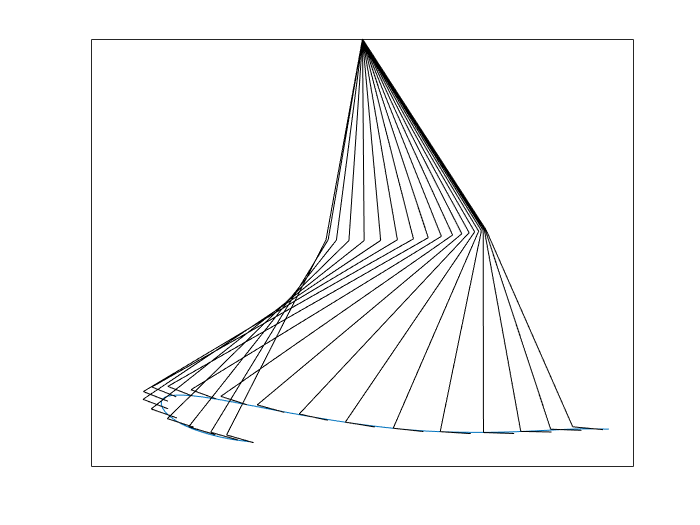
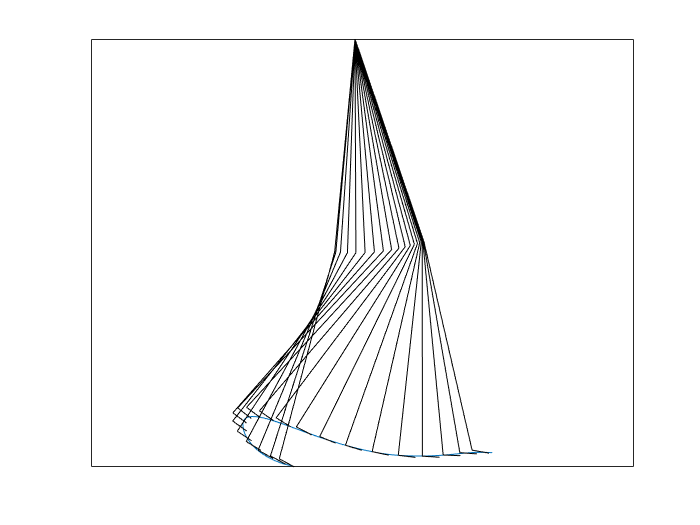
Updated sim to inlcude mpc

Changed region(s): [[0.21, 0.061, 0.87, 0.8838], [0.75, 0.701, 0.81, 0.7619]]

diff --git a/JerkMPC.m b/JerkMPC.m
@@ -1,0 +1,215 @@
+clear
+close all
+
+%% Import Experimental Data
+load('FootPlacement.mat')
+Xf = fit(timex, 0.8*(x/100),'smoothingspline');
+Zf = fit(timez, 0.8*(z/100),'smoothingspline');
+
+%% Define MPC Object and Parameters
+t = linspace(0,timex(end),35); 
+
+%-- Parameter Definitions --%
+Ts = t(2) - t(1);           % Sample Time
+last_state_dot = 0;         % Record last state derivative
+
+%Leg Geometry
+lh = 0.424; lk = 0.425; la = 0.034;
+leg_length = struct('hip',lh,'knee',lk,'ankle',la);
+q_star = deg2rad([0;10;90]); %comfortable positions
+
+%Parameter Cell
+params = nlmpcmoveopt; %Non-linear mpc "options" object
+params.Parameters = {Ts, last_state_dot, leg_length, q_star};
+n_params = length(params.Parameters);
+
+%MPC Object
+LEG = nlmpc(3,2,3); %3 states, 2 outputs, 3 inputs
+
+%Model Definition
+LEG.Ts = Ts;
+LEG.ControlHorizon = 10;
+LEG.PredictionHorizon = 10;
+LEG.Model = struct('StateFcn',@myStateFunction,'OutputFcn',@myOutputFunction,'NumberOfParameters',n_params);
+LEG.Jacobian = struct('OutputFcn',@Jacobian);
+LEG.Optimization = struct('CustomCostFcn',@myCostFunction,'ReplaceStandardCost',false);
+LEG.Weights.OutputVariables = [40 40];
+LEG.Weights.ManipulatedVariablesRate = [0.01 0.01 0.01];
+
+%'CustomCostFcn',@myCostFunction,
+
+%Joint Limits
+LEG.States(1).Min = deg2rad(-45);
+LEG.States(1).Max = deg2rad( 45);
+LEG.States(2).Min = deg2rad(  0);
+LEG.States(2).Max = deg2rad( 80);
+LEG.States(3).Min = deg2rad( 60);
+LEG.States(3).Max = deg2rad(170);
+
+%% Simulation 
+N = length(t);
+
+%Initial State
+state = deg2rad([-10;5;75]);
+qh_0 = state(1);
+qk_0 = state(2);
+qa_0 = state(3);
+
+%Initial End Point Position
+x0 = lh*sin(qh_0) + lk*sin(qh_0-qk_0) + la*sin(qh_0-qk_0+qa_0);
+z0 = -lh*cos(qh_0) - lk*cos(qh_0-qk_0) - la*cos(qh_0-qk_0+qa_0);
+
+%Moving displacement vector to intertial frame
+delta_x = x0 - Xf(0);
+delta_z = z0 - Zf(0);
+
+%Live plot initialization
+figure()
+plot(Xf(t)+delta_x,Zf(t)+delta_z)
+hold on
+axis equal
+
+lastmv = zeros(3,1);                    % Controller input from last time step
+state_vector = zeros(3,N);              % Vector for recording state time history
+step_count = LEG.PredictionHorizon - 1; % How far to look into the future
+
+%-- Loop through euler integration simulation --%
+for i = 1:N
+    
+    %Set reference trajectory until the prediction horizon
+    try
+        ref_point = [Xf(t(i:i+step_count))+delta_x Zf(t(i:i+step_count))+delta_z];
+    catch
+        ref_point = [Xf(t(i:end))+delta_x Zf(t(i:end))+delta_z];
+    end
+    
+    %Decide optimal control input
+    mv = nlmpcmove(LEG,state,lastmv,ref_point,[],params);
+    
+    %Euler Integration using Control Input
+    state_dot = myStateFunction(0,mv,Ts,last_state_dot);
+    state = state + Ts*state_dot;
+    lastmv = mv;
+    last_state_dot = state_dot;
+    
+    %Live plot
+    state_vector(:,i) = state';
+%     output = myOutputFunction(state,0,0,0,leg_length,0);
+%     plot(ref_point(1,1),ref_point(1,2),'cx')
+%     plot(output(1),output(2),'gd')
+%     drawnow
+end
+
+%% Plot Results
+
+for i = 1:length(state_vector)
+    logic_array = [(state_vector(:,i) ~= zeros(3,1)); mod(i,2)==0];
+    if logic_array
+        plotLeg(state_vector(:,i))
+    end
+end
+
+%% Functions
+
+function state_dot = myStateFunction(~,u,~,~,~,~)
+    
+    %We define the input u to be the a column vector containing the angular
+    %velocity of all 3 joint angles
+    state_dot = u;
+    
+end
+
+function output = myOutputFunction(x,~,~,~,leg_length,~)
+
+    qh = x(1); qk = x(2); qa = x(3);
+    
+    %Leg geometry
+    lh = leg_length.hip;
+    lk = leg_length.knee;
+    la = leg_length.ankle;
+
+    x0 = lh*sin(qh) + lk*sin(qh-qk) + la*sin(qh-qk+qa);
+    z0 = -lh*cos(qh) - lk*cos(qh-qk) - la*cos(qh-qk+qa);
+
+    output = [x0; z0];
+
+end
+
+function J = Jacobian(x,~,~,~,leg_length,~)
+
+    qh = x(1); qk = x(2); qa = x(3);
+    
+    %Leg geometry
+    lh = leg_length.hip;
+    lk = leg_length.knee;
+    la = leg_length.ankle;
+    
+    %Jacobian Definition
+    J = zeros(2,3);
+    J(1,1) = lh*cos(qh) + lk*cos(qh-qk) + la*cos(qh-qk+qa);
+    J(1,2) = -lk*cos(qh-qk) - la*cos(qh-qk+qa);
+    J(1,3) = la*cos(qh-qk+qa);
+    J(2,1) = lh*sin(qh) + lh*sin(qh-qk) + la*sin(qh-qk+qa);
+    J(2,2) = -lh*sin(qh-qk) - la*sin(qh-qk+qa);
+    J(2,3) = la*sin(qh-qk+qa);
+end
+
+function cost = myCostFunction(X,U,~,data,Ts,~,~,q_star)
+    p = data.PredictionHorizon;
+
+    %Minimize Jerk
+    vel_h = U(2:p+1,1);
+    vel_k = U(2:p+1,2);
+    vel_a = U(2:p+1,3);
+    
+    acc_h = diff(vel_h)/Ts;
+    acc_k = diff(vel_k)/Ts;
+    acc_a = diff(vel_a)/Ts;
+    
+    jerk_h = diff(acc_h)/Ts;
+    jerk_k = diff(acc_k)/Ts;
+    jerk_a = diff(acc_a)/Ts;
+    
+    jerk_cost = sum(jerk_h.^2) + sum(jerk_k.^2) + sum(jerk_a.^2);
+    
+    %Scaling to be on the same order as the other cost functions
+    %(This was somewhat arbitrary) 
+    jerk_cost = jerk_cost/(1000*(p+1)); 
+    
+    %Avoid uncomfortable positions
+    qh = X(2:p+1,1); qk = X(2:p+1,2); qa = X(2:p+1,3);
+    
+    hip_cost = sum((qh - q_star(1)).^2);
+    knee_cost = sum((qk - q_star(2)).^2);
+    ankle_cost = 5*sum((qa - q_star(3)).^2);
+    
+    %Find Total Cost
+    cost = jerk_cost + hip_cost + knee_cost + ankle_cost;
+%     cost = cost;
+
+end
+
+function plotLeg(q)
+
+    lh = 0.424; lk = 0.425; la = 0.034;
+    qh = q(1); qk = q(2); qa = q(3);
+
+    %shoulder position
+    xh = 0;
+    yh = 0;
+
+    %knee position
+    xk = xh + lh*sin(qh);
+    yk = yh - lh*cos(qh);
+
+    %ankle position
+    xa = xk + lk*sin(qh-qk);
+    ya = yk - lk*cos(qh-qk);
+
+    %end point
+    x = xa + la*sin(qh-qk+qa);
+    y = ya - la*cos(qh-qk+qa);
+
+    plot([xh xk xa x],[yh yk ya y],'color',0*[1 1 1])
+    %drawnow
+end

diff --git a/Leg_Sim.m b/Leg_Sim.m
@@ -47,7 +47,7 @@ z0 = -lh*cos(qh_0) - lk*cos(qh_0-qk_0) - la*cos(qh_0-qk_0+qa_0);
 
 %Comfortable Leg Positions
 qstar = deg2rad([0;10;90]);
-t_step = 0.001;
+t_step = 0.01;
 t_span = 0:t_step:timex(end);
 % t_span = [0 timex(end)];
 
@@ -65,6 +65,9 @@ figure(1)
 plot(ENDPOINT(:,1),ENDPOINT(:,2)) %Plot desired trajectory
 %drawnow
 hold on
+axis equal
+set(gca,'XTick',[])
+set(gca,'YTick',[])
 
 for i = 1:length(TOUT_JOINT_VEL)
     plotLeg(JOINTSPACE_VEL(i,:))  %Plot leg position over time
@@ -81,6 +84,9 @@ figure(2)
 plot(ENDPOINT(:,1),ENDPOINT(:,2)) %Plot desired trajectory
 %drawnow limitrate
 hold on
+axis equal
+set(gca,'XTick',[])
+set(gca,'YTick',[])
 
 for i = 1:2:length(TOUT_JOINT_KE)
     plotLeg(JOINTSPACE_KE(i,:))   %Plot leg position over time
@@ -105,6 +111,9 @@ T = 0:t_step:timex(end);
 figure(3)
 plot(Xf(T),Zf(T)-0.92)
 hold on
+axis equal
+set(gca,'XTick',[])
+set(gca,'YTick',[])
 
 count = 0;
 for time = T
